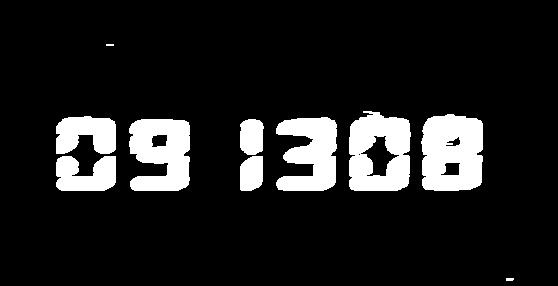
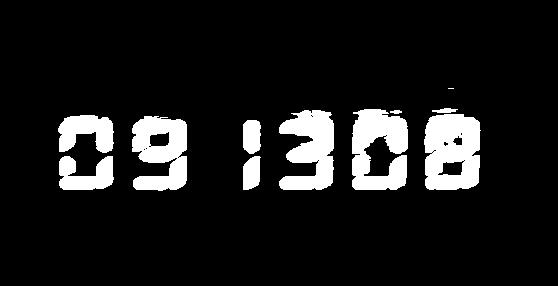
update

diff --git a/templates/comfirm.html b/templates/comfirm.html
@@ -10,15 +10,15 @@
 
 <body>
     <form action="/register_chinko" method="post">
-        <p name="use_date">{{ use_date }}</p>
-        <p name="start_time">{{ start_time }}</p>
-        <p name="ending_time">{{ ending_time }}</p>
-        <p name="task">{{ task }}</p>
-        <p name="car_select">{{ car_select }}</p>
-        <p name="select">{{ select }}</p>
-        <p name="ODO">{{ ODO }}</p>
-        <p name="oil">{{ oil }}</p>
-        <p name="text">{{ text }}</p>
+        <input type="hidden" name="use_date">{{ use_date }}</p>
+        <input type="hidden" name="start_time">{{ start_time }}</p>
+        <input type="hidden" name="ending_time">{{ ending_time }}</p>
+        <input type="hidden" name="task">{{ task }}</p>
+        <input type="hidden" name="car_select">{{ car_select }}</p>
+        <input type="hidden" name="select">{{ select }}</p>
+        <input type="hidden" name="ODO">{{ ODO }}</p>
+        <input type="hidden" name="oil">{{ oil }}</p>
+        <input type="hidden" name="text">{{ text }}</p>
 
         <input type="submit" value="comfirm">
     </form>

diff --git a/ocr.py b/ocr.py
@@ -25,20 +25,19 @@ def ocr(photo):
     img = cv2.imread(photo)
 
     img_gray = cv2.cvtColor(img, cv2.COLOR_RGB2GRAY)
-    cv2.imwrite("static/images/gray.jpeg", img_gray)
+    # cv2.imwrite("static/images/gray.jpeg", img_gray)
 
-    img_reverse = 255 - img_gray
-    cv2.imwrite("static/image/reverse.jpeg", img_reverse)
+    # img_reverse = 255 - img_gray
+    # cv2.imwrite("static/image/reverse.jpeg", img_reverse)
 
     # 2値化（100:２値化の閾値／画像を見て調整する）
-    ret, thresh1 = cv2.threshold(img_gray, 110, 255, cv2.THRESH_BINARY)
+    ret, thresh1 = cv2.threshold(img_gray, 100, 255, cv2.THRESH_BINARY)
     # ノイズ処理（モルフォロジー変換
-    kernel = np.ones((2, 7), np.uint8)
-    img_opening = cv2.dilate(thresh1, kernel)
-    # img_opening = cv2.morphologyEx(thresh1, cv2.MORPH_OPEN, kernel)
+    kernel = np.ones((1, 5), np.uint8)
+    img_opening = cv2.morphologyEx(thresh1, cv2.MORPH_OPEN, kernel)
 
     image = cv2pil(img_opening)
-    image.save("static/images/pillow.jpeg")
+    # image.save("static/images/pillow.jpeg")
 
     txt = tool.image_to_string(
         image, lang="jpn", builder=pyocr.builders.DigitBuilder(tesseract_layout=6)
